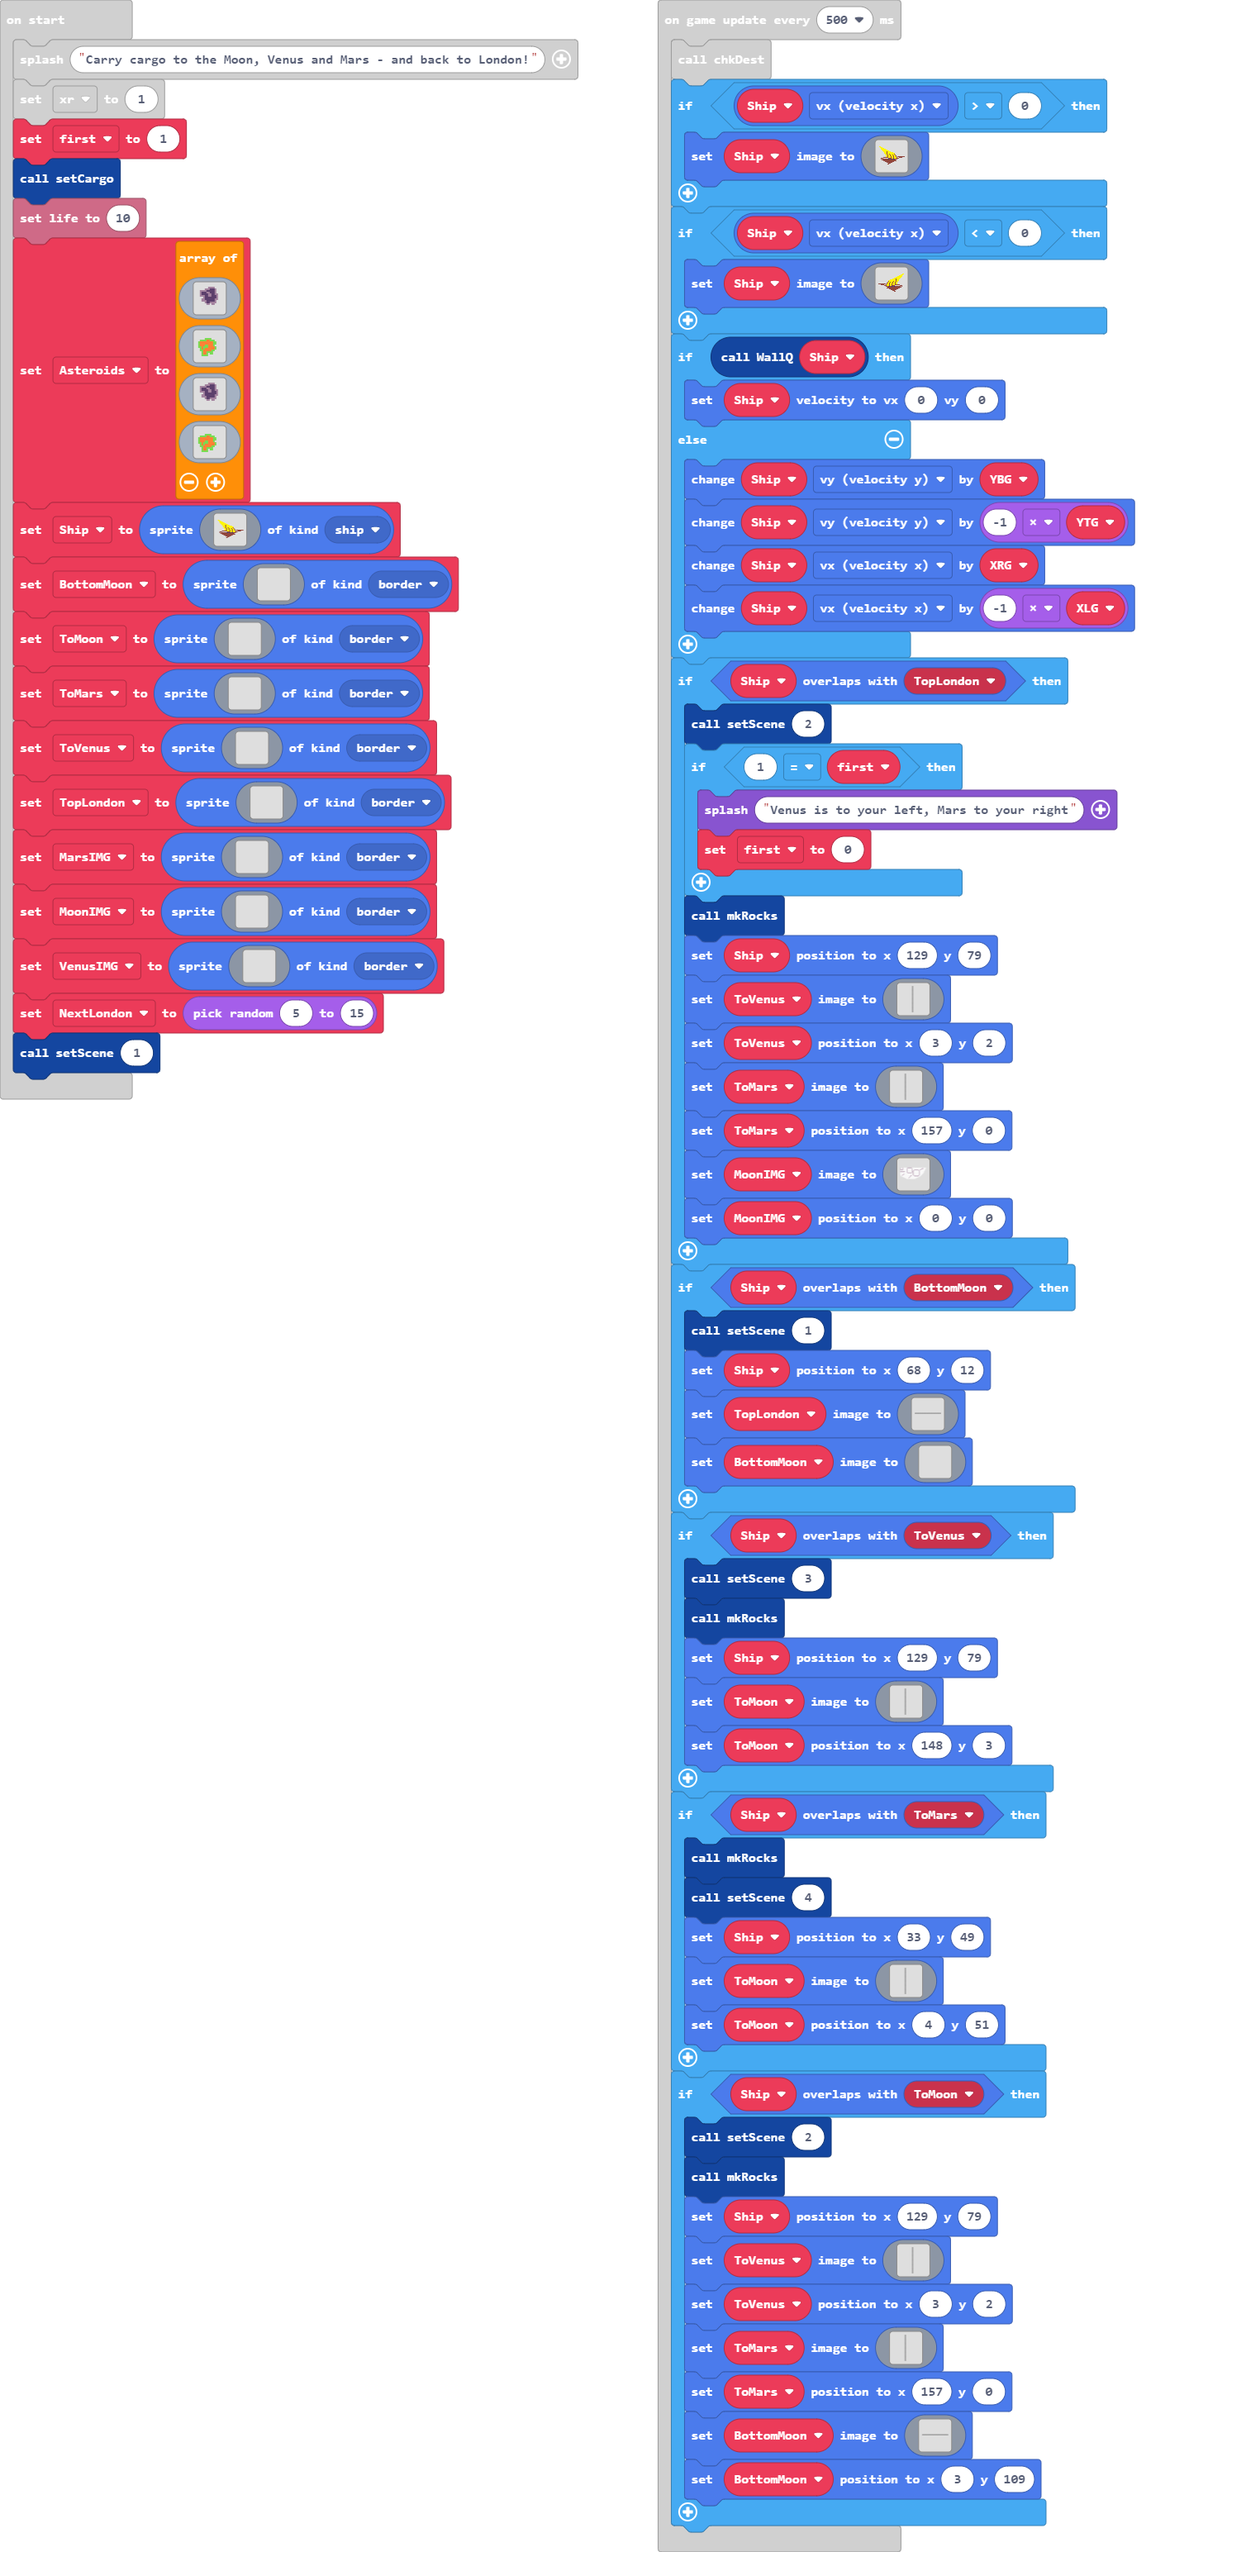
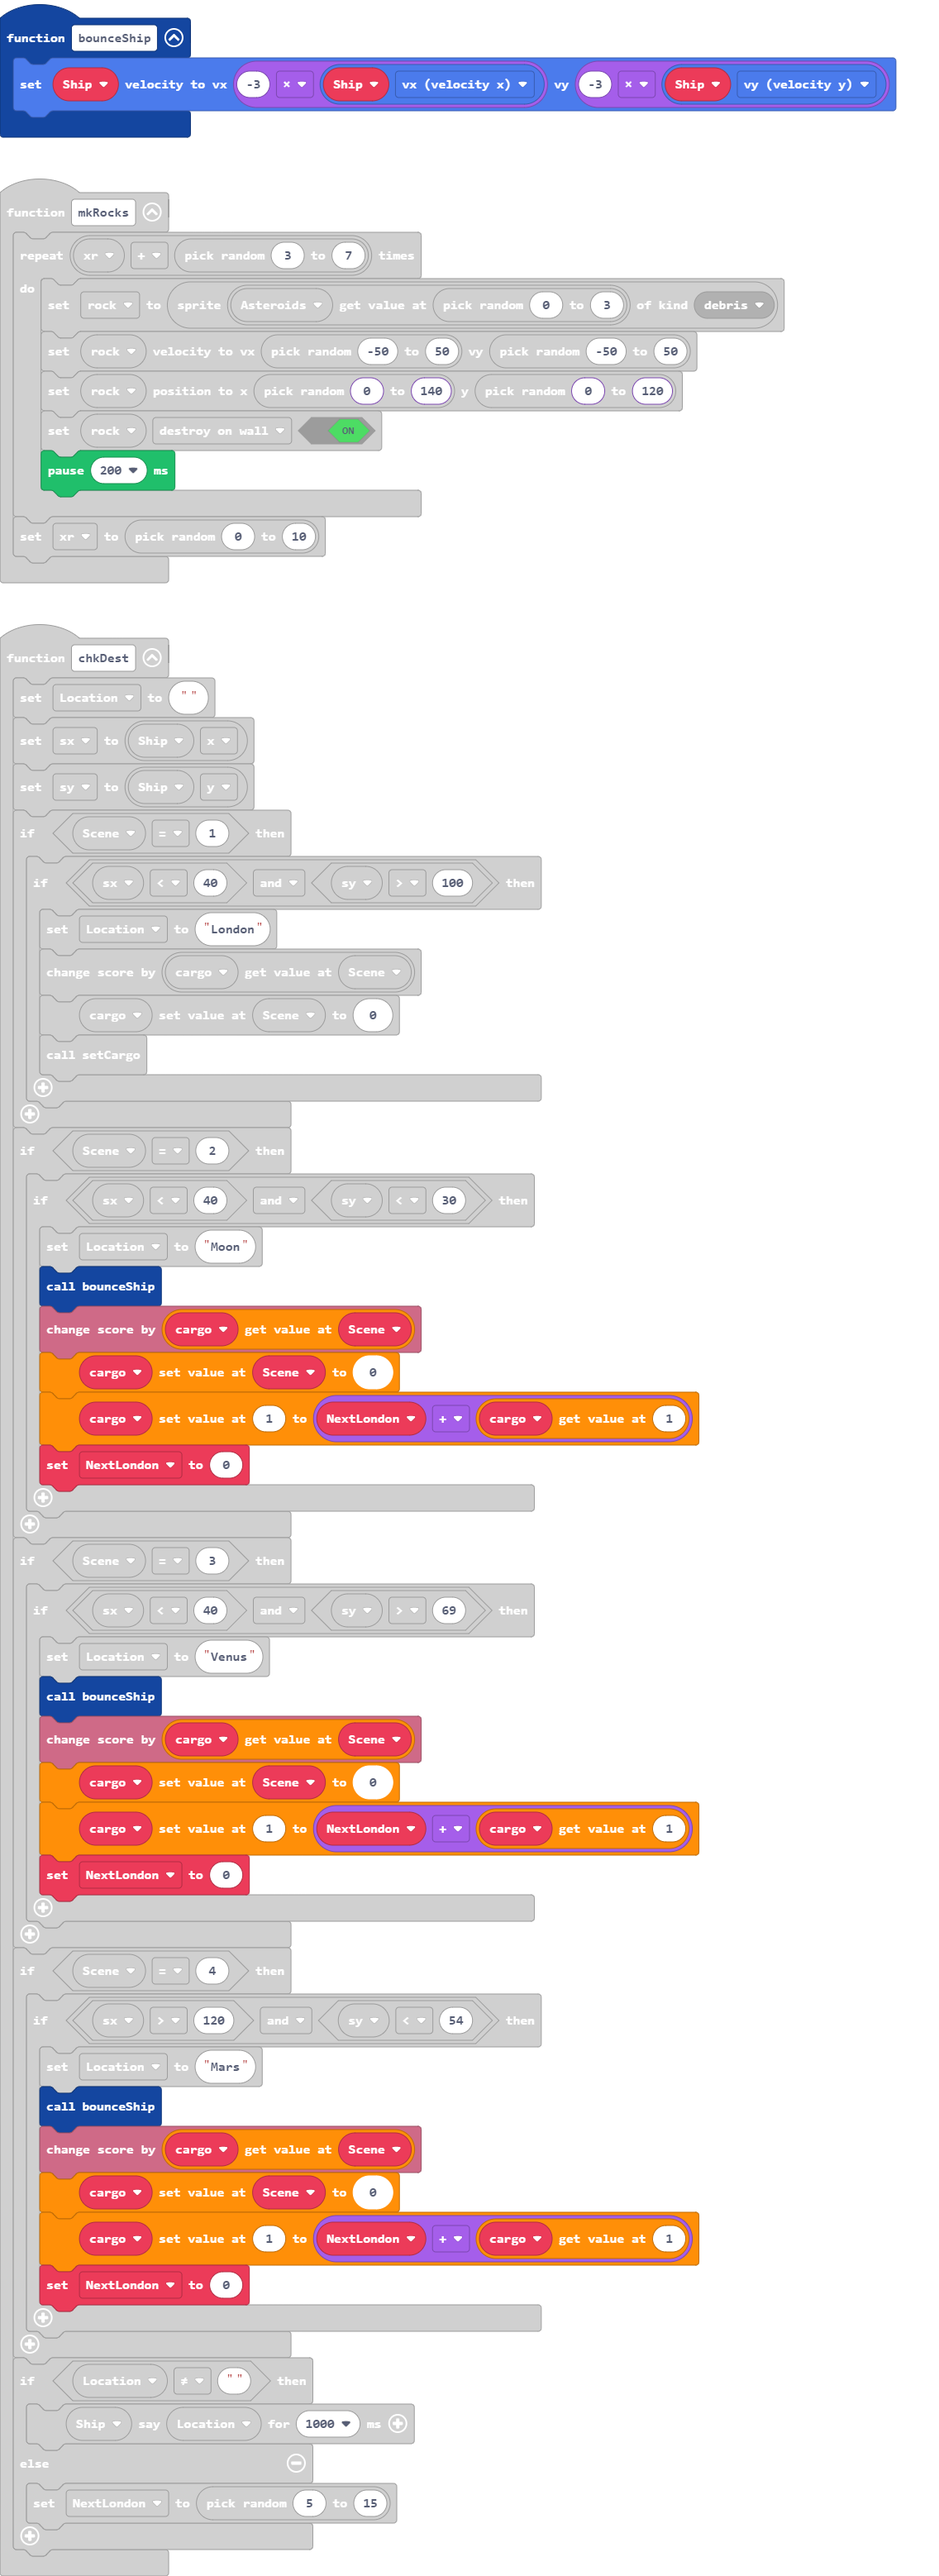
Update main.blocks, main.ts

diff --git a/main.ts b/main.ts
@@ -17,6 +17,9 @@ controller.B.onEvent(ControllerButtonEvent.Pressed, function () {
     pause(500)
     Ship.say("Mars" + convertToText(cargo[4]), 1000)
 })
+function bounceShip () {
+    Ship.setVelocity(-3 * Ship.vx, -3 * Ship.vy)
+}
 controller.left.onEvent(ControllerButtonEvent.Pressed, function () {
     Ship.vx += -5
 })
@@ -24,8 +27,9 @@ function mkRocks () {
     for (let index = 0; index < xr + randint(3, 7); index++) {
         rock = sprites.create(Asteroids[randint(0, 3)], SpriteKind.debris)
         rock.setVelocity(randint(-50, 50), randint(-50, 50))
-        rock.setPosition(randint(30, 50), randint(30, 50))
+        rock.setPosition(randint(0, 140), randint(0, 120))
         rock.setFlag(SpriteFlag.DestroyOnWall, true)
+        pause(200)
     }
     xr = randint(0, 10)
 }
@@ -165,6 +169,7 @@ function chkDest () {
     if (Scene == 2) {
         if (sx < 40 && sy < 30) {
             Location = "Moon"
+            bounceShip()
             info.changeScoreBy(cargo[Scene])
             cargo[Scene] = 0
             cargo[1] = NextLondon + cargo[1]
@@ -174,6 +179,7 @@ function chkDest () {
     if (Scene == 3) {
         if (sx < 40 && sy > 69) {
             Location = "Venus"
+            bounceShip()
             info.changeScoreBy(cargo[Scene])
             cargo[Scene] = 0
             cargo[1] = NextLondon + cargo[1]
@@ -183,6 +189,7 @@ function chkDest () {
     if (Scene == 4) {
         if (sx > 120 && sy < 54) {
             Location = "Mars"
+            bounceShip()
             info.changeScoreBy(cargo[Scene])
             cargo[Scene] = 0
             cargo[1] = NextLondon + cargo[1]
